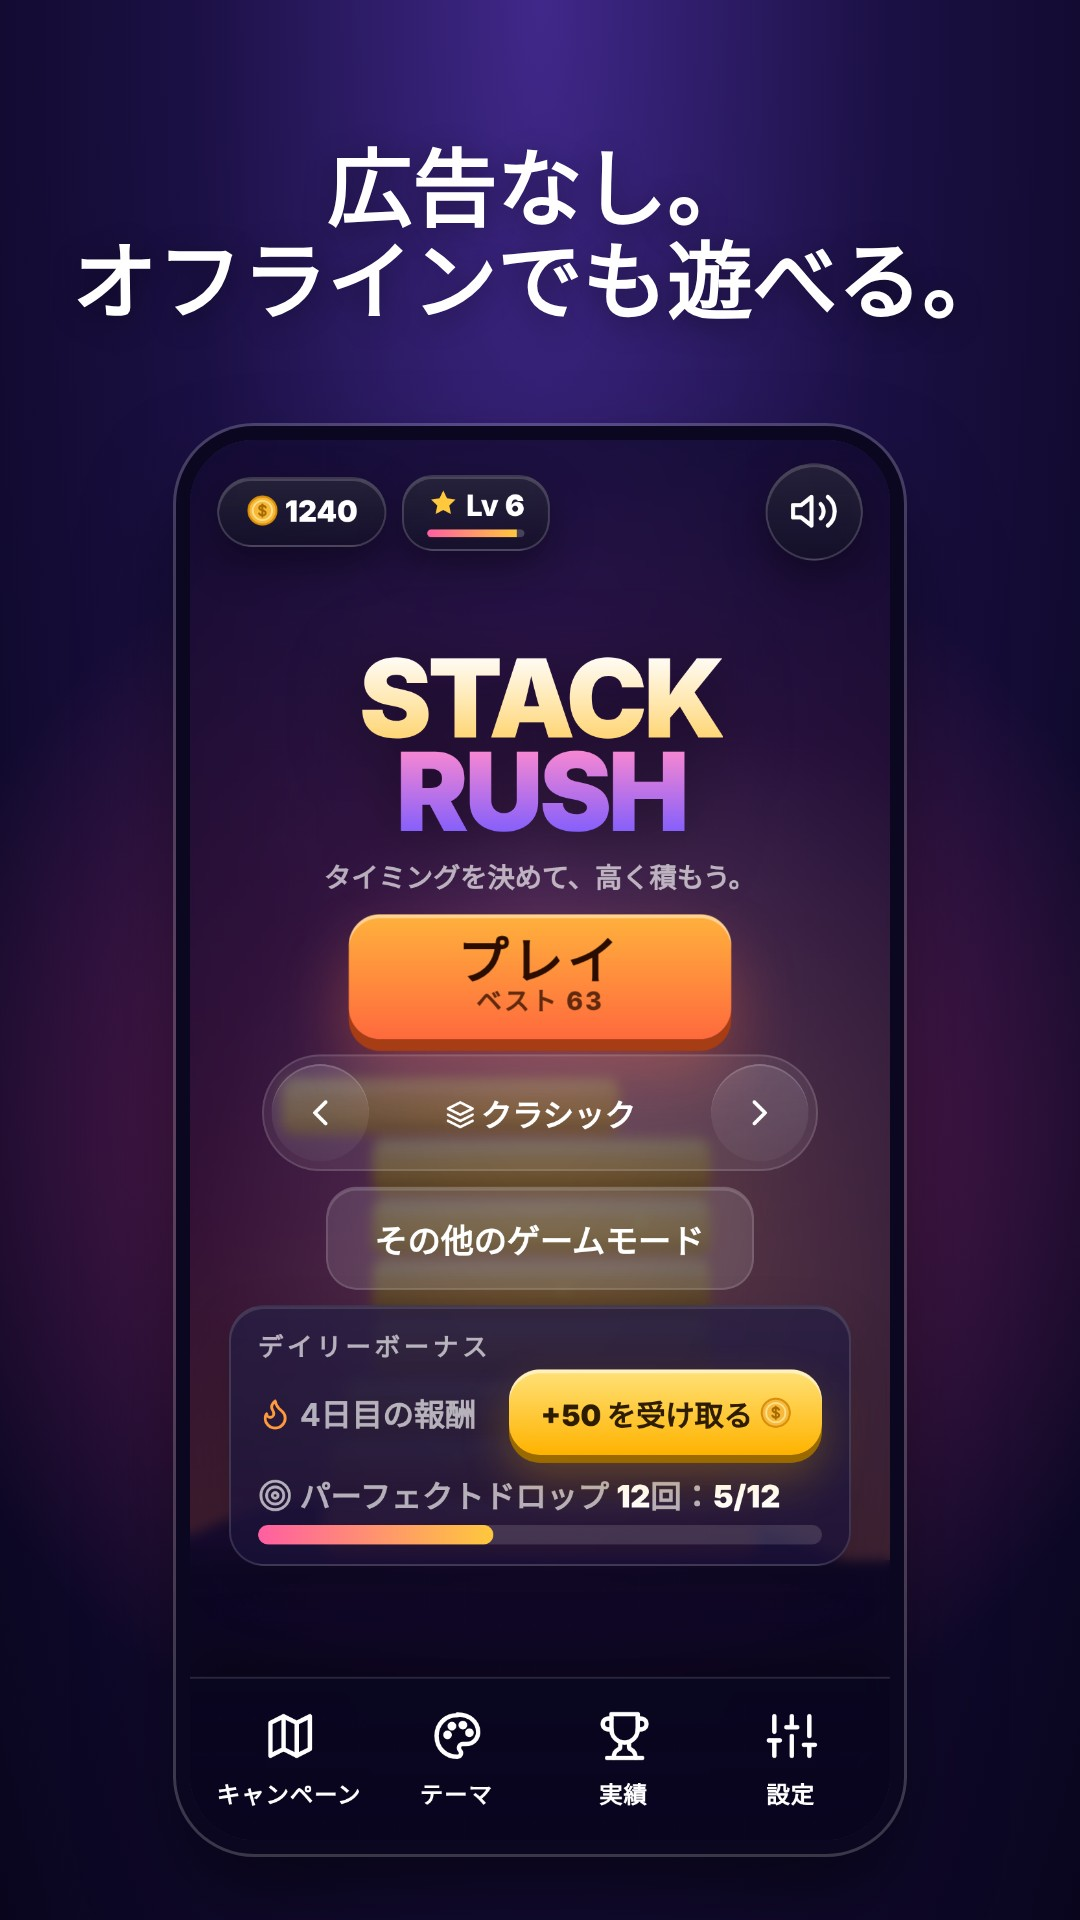
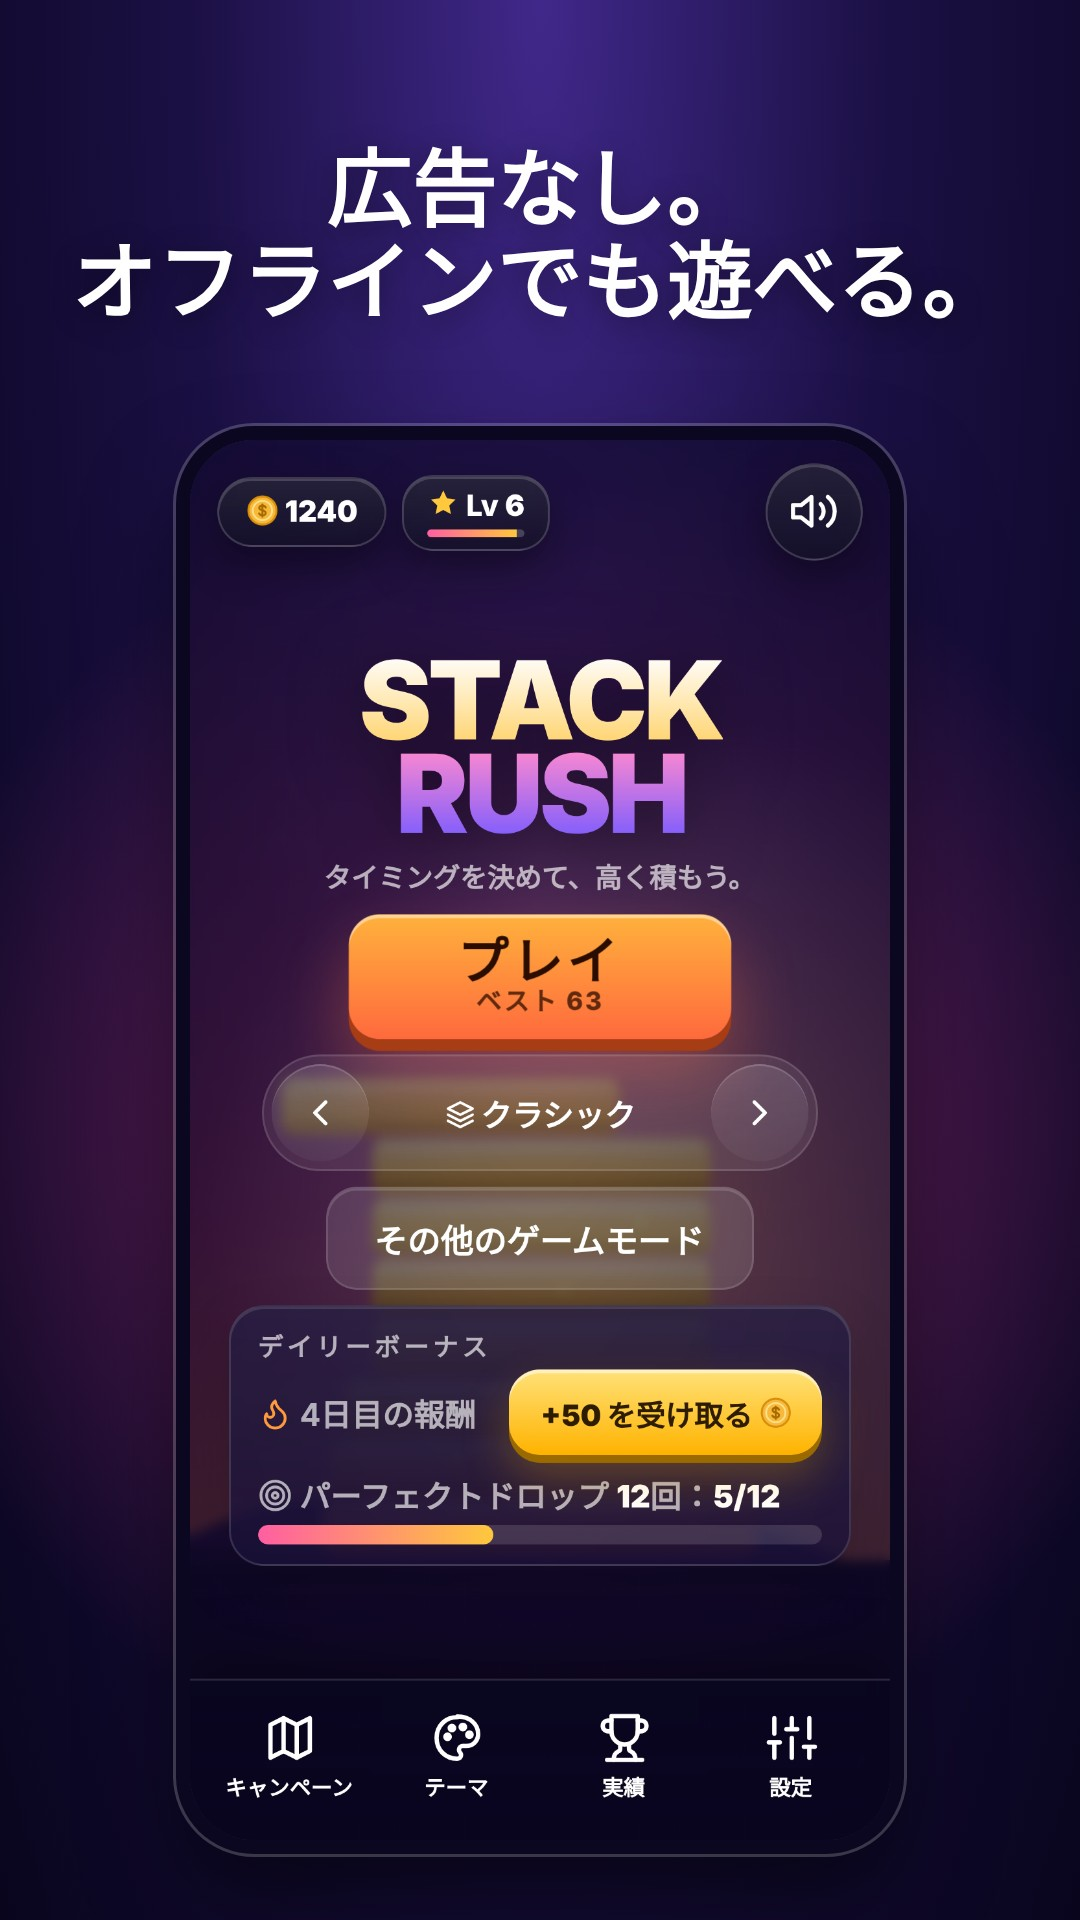
Make the menu and nav labels robust to wider fonts (found by CI)
- Bottom nav: no letter-spacing, 11px on narrow phones, and a long word such as German
  "Einstellungen" may hyphenate instead of being clipped
- Short phones (360x640): a slimmer header, logo and nav bar so the whole menu fits even
  with a wide fallback font (GitHub's runner uses DejaVu Sans)
- Re-rendered the menu screenshots; README note about font-sensitive layout tests

Claude-Session: https://claude.ai/code/session_01SkutRzgU2uJDzFT3ehCGYK

diff --git a/index.html b/index.html
@@ -360,8 +360,16 @@ button{position:relative;overflow:hidden;touch-action:manipulation}
   #menu .card.slim{padding:7px 12px;font-size:13px}
   #menu .card .bar{margin-top:4px!important}
 }
+/* bottom nav labels: no letter-spacing, and a long word (German "Einstellungen") may hyphenate instead of being clipped, whatever the phone's font */
+.nb{letter-spacing:0;line-height:1.1;text-align:center;overflow-wrap:break-word;hyphens:auto}
+@media (max-width:380px){.nb{font-size:11px}}
 @media (max-height:690px){
-  #menu .logo{font-size:46px}
+  #menu .logo{font-size:42px}
+  #menu .mhead{padding-top:calc(env(safe-area-inset-top) + 6px)}
+  #menu .mhead .iconbtn{width:44px;height:44px}
+  #menu .navbar{padding-top:4px;padding-bottom:calc(env(safe-area-inset-bottom) + 4px)}
+  #menu .nb{min-height:56px;padding:5px 2px}
+  #menu .nb i .ic{width:24px;height:24px}
   #menu .modechip{padding:2px}
   #menu #openModes{padding-top:8px;padding-bottom:8px;min-height:44px}
   #menu .sbody{gap:6px}

diff --git a/README.md b/README.md
@@ -92,7 +92,7 @@ npm test               # everything, about 10 minutes
 node tests/run.js speed            # one file
 node tests/run.js i18n "play-through"   # one test
 ```
-Browser tests (headless Chromium, through the `#debug` hook): `game` (every mode, shield, revive, ghost, campaign, pause), `speed` (the ramp), `ux` (tutorial, assist, settings, save code, themes, 44px targets, short phones, music, accessibility), `i18n` (translation files, all 13 languages on every screen with no clipped text, the picker, fallbacks, no untranslated strings during play), `devices` (tall iPhones, tablets, iPad detection, safe areas, no white edges, launch images, desktop), `security` (hostile save codes, debug hook off the public site) and `offline`. GitHub Actions runs them on every push (`.github/workflows/test.yml`).
+Browser tests (headless Chromium, through the `#debug` hook): `game` (every mode, shield, revive, ghost, campaign, pause), `speed` (the ramp), `ux` (tutorial, assist, settings, save code, themes, 44px targets, short phones, music, accessibility), `i18n` (translation files, all 13 languages on every screen with no clipped text, the picker, fallbacks, no untranslated strings during play), `devices` (tall iPhones, tablets, iPad detection, safe areas, no white edges, launch images, desktop), `security` (hostile save codes, debug hook off the public site) and `offline`. GitHub Actions runs them on every push (`.github/workflows/test.yml`). The layout checks depend on the font: GitHub's runner uses DejaVu Sans, which is wider than Inter, Roboto or SF, so if a test passes on your machine but fails in CI, the font is the first suspect.
 
 ## Store assets and promo video
 All generated from the real game (a bot plays it on a virtual clock), so they stay in sync with the UI. Needs Playwright; the video also needs `ffmpeg`. For Hindi/Korean/Japanese/Chinese pictures, install fonts such as `fonts-noto-cjk` and `fonts-noto-core`.
